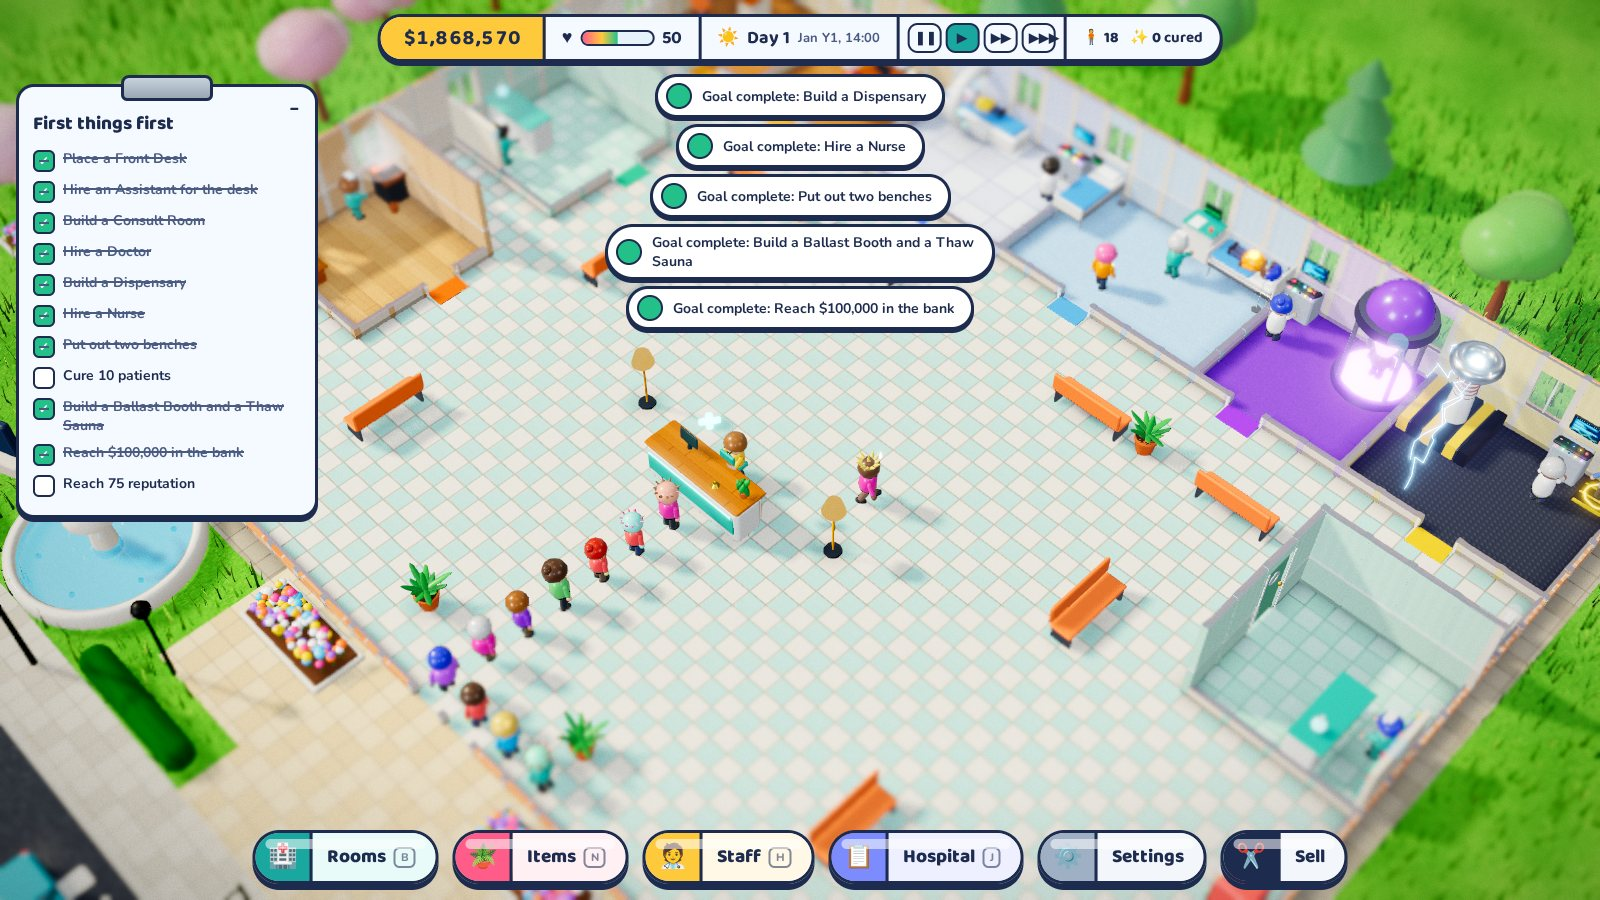
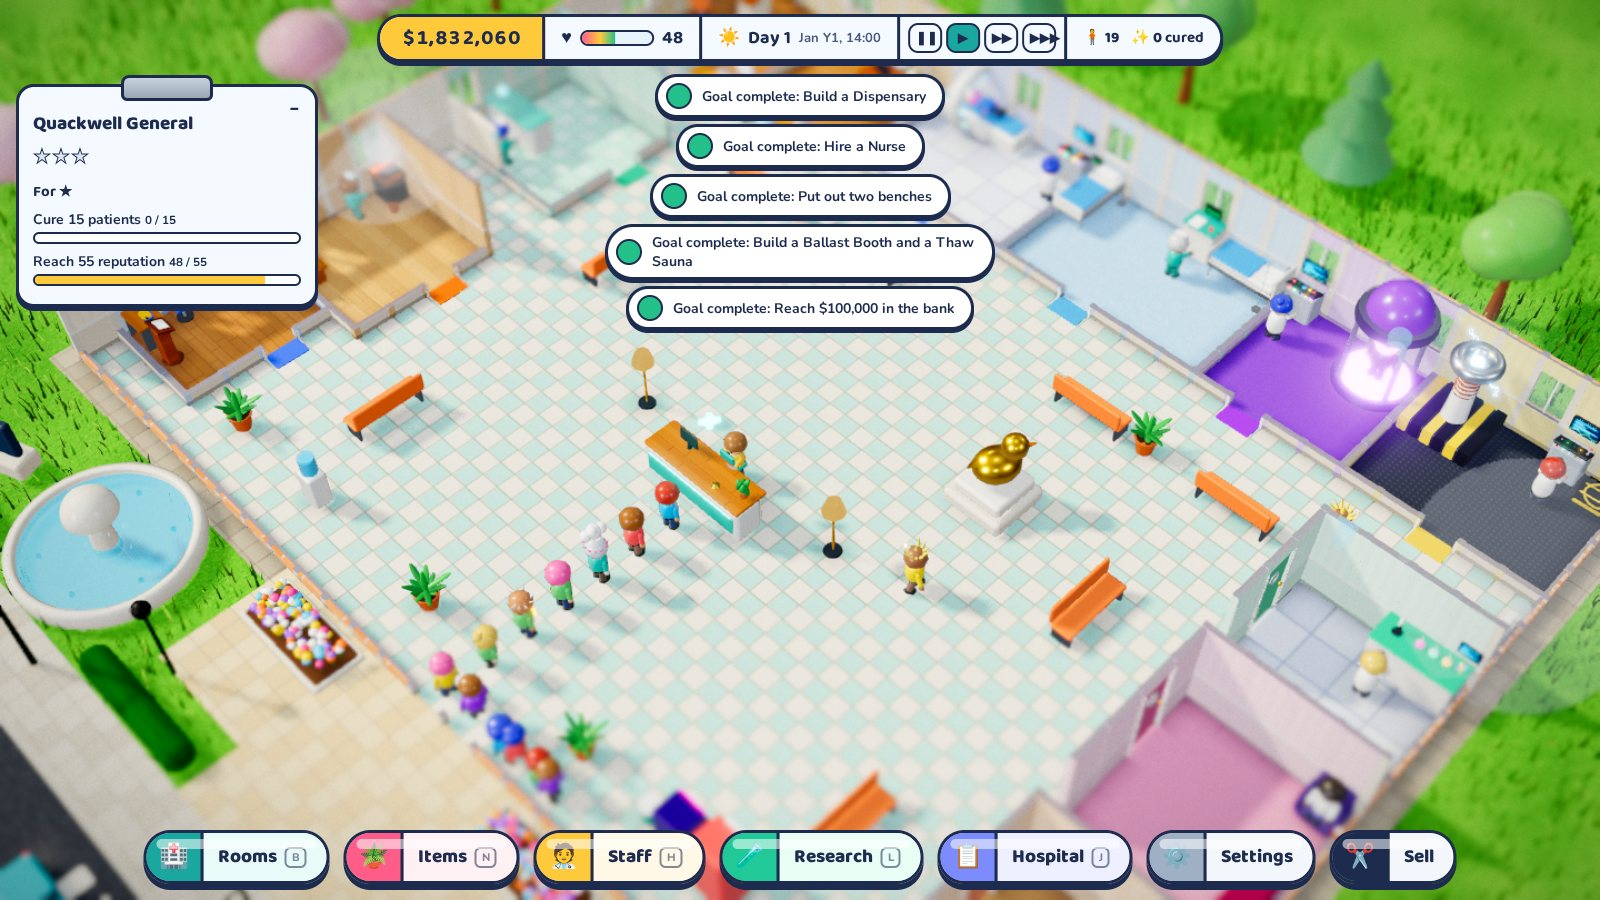
Balance pass across the campaign, keep grass off the beach's ocean, refresh README screenshots

diff --git a/src/sim/scenarios.ts b/src/sim/scenarios.ts
@@ -61,7 +61,7 @@ export const SCENARIOS: ScenarioDef[] = [
     stars: [
       [g('cured', 15, 'Cure 15 patients'), g('rep', 55, 'Reach 55 reputation')],
       [g('cured', 60, 'Cure 60 patients'), g('money', 120_000, 'Have $120,000 in the bank')],
-      [g('cured', 150, 'Cure 150 patients'), g('rep', 75, 'Reach 75 reputation'), g('research', 3, 'Finish 3 research projects')],
+      [g('cured', 200, 'Cure 200 patients'), g('rep', 75, 'Reach 75 reputation'), g('research', 3, 'Finish 3 research projects')],
     ],
   },
   {
@@ -106,7 +106,7 @@ export const SCENARIOS: ScenarioDef[] = [
     tagline: 'The big city. A huge building, every illness at once and inspectors with clipboards.',
     building: { x: 3, z: 2, w: 40, h: 26, entrance: E }, money: 150_000, reputation: 40,
     months: { heliumLungs: 0, frostbiteFever: 0, glowbelly: 1, staticCling: 1, bubbleTrouble: 1, echoItis: 2, backwardsWalking: 3, ghosting: 3 },
-    spawnMult: 1.4, eventEvery: [0.8, 1.4], emergencyChance: 0.45,
+    spawnMult: 1.25, eventEvery: [0.8, 1.4], emergencyChance: 0.45,
     stars: [
       [g('cured', 40, 'Cure 40 patients'), g('rep', 55, 'Reach 55 reputation')],
       [g('cured', 150, 'Cure 150 patients'), g('inspection', 4, 'Get a 4-star inspection')],

diff --git a/src/render/exterior.ts b/src/render/exterior.ts
@@ -219,6 +219,8 @@ export class Exterior {
     this.theme = opts.theme;
     this.b = opts.building;
     HARD[0] = { x0: this.b.x - 0.6, z0: this.b.z - 0.6, x1: this.b.x + this.b.w + 0.6, z1: this.b.z + this.b.h + 0.6 };
+    // the sea: nothing grows below the beach's shoreline
+    if (this.theme === 'beach') HARD.push({ x0: -400, z0: -400, x1: 400, z1: this.b.z - 4.4 });
     this.poolMat = new THREE.MeshBasicMaterial({ map: radialTex(), color: '#ffc77a', transparent: true, opacity: 0, blending: THREE.AdditiveBlending, depthWrite: false });
     this.ground();
     this.roadAndPaths();

diff --git a/README.md b/README.md
@@ -40,8 +40,9 @@ no textbook has heard of, all inside a glossy miniature diorama rendered in real
 
 | | |
 |---|---|
-| ![A ward and the ballast booth up close](docs/images/closeup.jpg) | ![The hospital at night](docs/images/hospital-night.jpg) |
-| ![Looking north over the entrance](docs/images/north-view.jpg) | ![The welcome screen](docs/images/welcome.jpg) |
+| ![The title screen over a live hospital](docs/images/title.jpg) | ![The golden duck statue, a Research Lab and the Therapy Room](docs/images/closeup.jpg) |
+| ![Sunnyside Seaside's beach and palms](docs/images/sunnyside.jpg) | ![Frostmere Clinic in the snow](docs/images/frostmere.jpg) |
+| ![The hospital at night](docs/images/hospital-night.jpg) | |
 
 ## Playing
 
